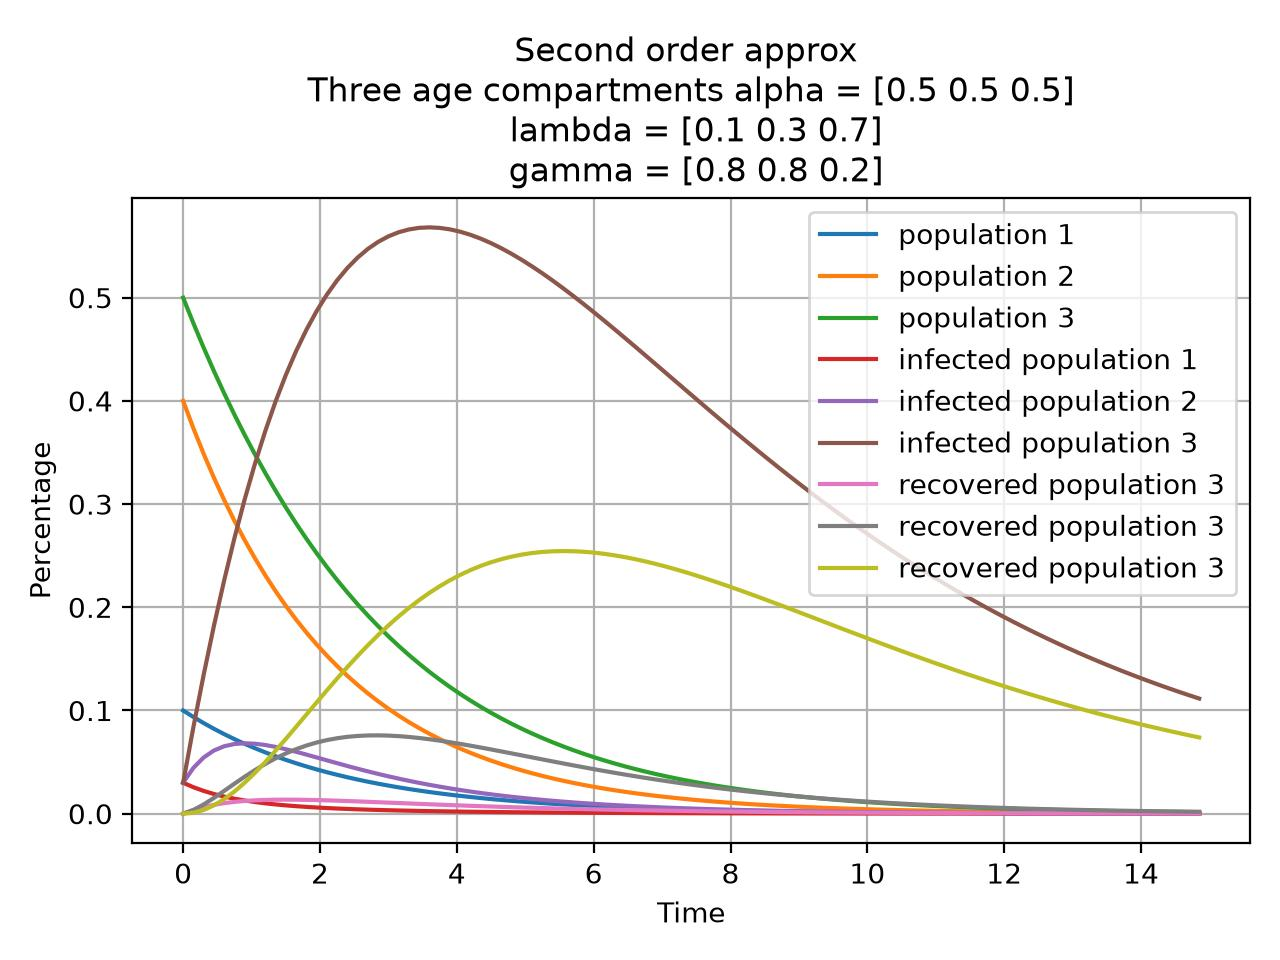
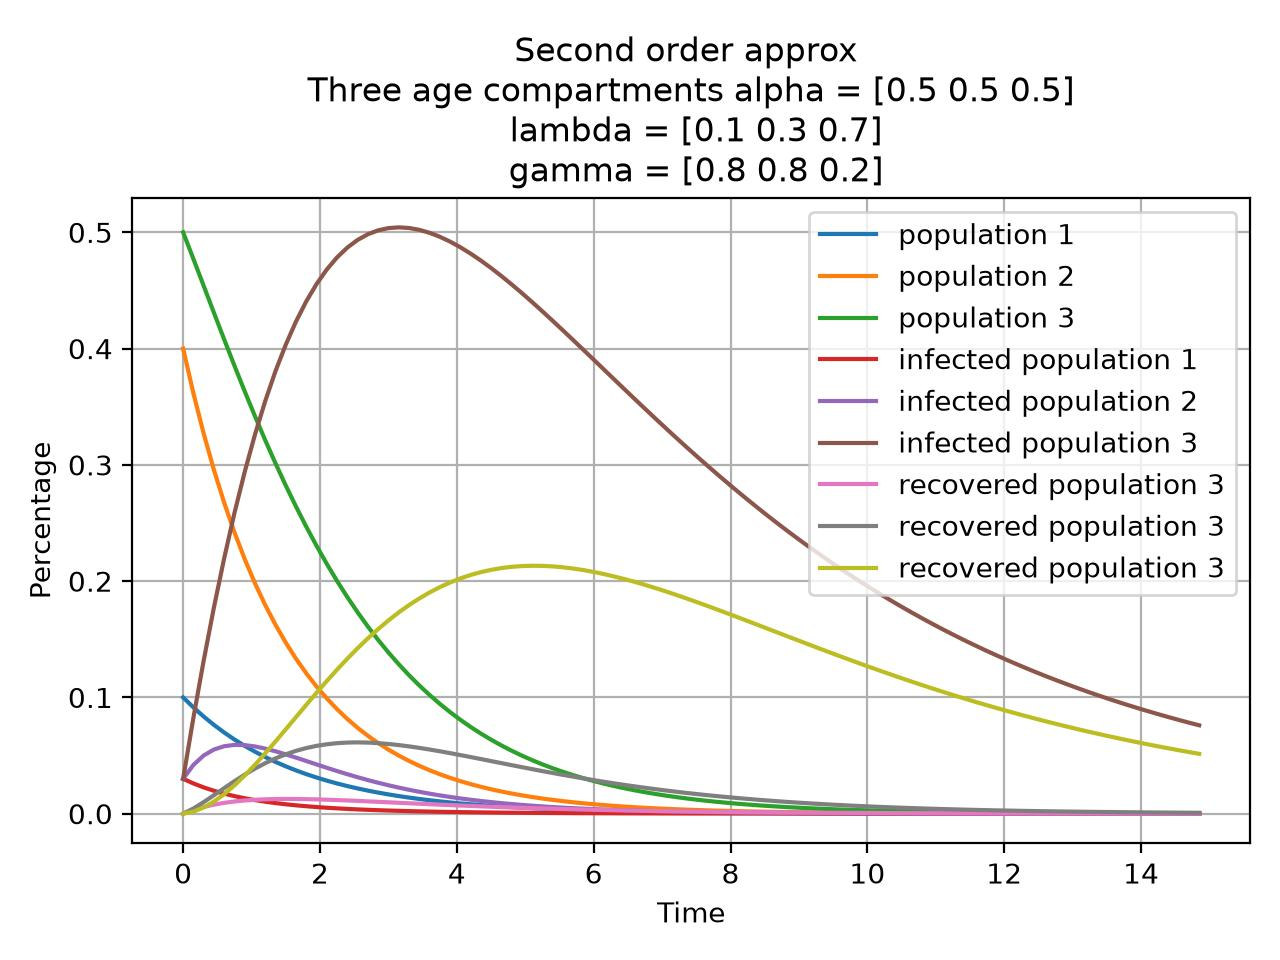
fixed second order approx and time step

diff --git a/age_example.py b/age_example.py
@@ -3,7 +3,6 @@ import matplotlib.pyplot as plt
 from models import s_alpha
 
 
-
 def taylor_system_10(f,initial,alpha,lamb,gamma,t0,t1,n):
     """Naive 2 S compartment connection. Forward 2nd order"""
     t = t0
@@ -29,16 +28,22 @@ def taylor_system_10(f,initial,alpha,lamb,gamma,t0,t1,n):
         s_1_pp = -alpha[0]*s_1_p - lamb[0]*s_1_p
         s_2_pp = alpha[0]*s_1_p - lamb[1]*s_2_p - alpha[1]*s_2_p
         s_3_pp = alpha[1]*s_2_p - lamb[2]*s_3_p
+        i_1_pp = lamb[0]*s_1_p - gamma[0]*i_1_p -alpha[0]*i_1_p
+        i_2_pp = lamb[1]*s_2_p - gamma[1]*i_2_p + alpha[0]*i_1_p - alpha[1]*i_2_p
+        i_3_pp = lamb[2]*s_3_p - gamma[2]*i_3_p + alpha[1]*i_2_p
+        r_1_pp = gamma[0]*i_1_p - alpha[0]*r_1_p
+        r_2_pp = gamma[1]*i_2_p + alpha[0]*r_1_p - alpha[1]*r_2_p
+        r_3_pp = gamma[2]*i_3_p + alpha[1]*r_2_p - alpha[2]*r_3_p
+        s[0] += h*(s_1_p + 0.5*h*s_1_pp)
+        s[1] += h*(s_2_p + 0.5*h*s_2_pp)
+        s[2] += h*(s_3_p + 0.5*h*s_3_pp)
+        i[0] += h*(i_1_p+ 0.5*h*i_1_pp)
+        i[1] += h*(i_2_p+ 0.5*h*i_2_pp)
+        i[2] += h*(i_3_p+ 0.5*h*i_3_pp)
+        r[0] += h*(r_1_p + 0.5*h*r_1_pp)
+        r[1] += h*(r_2_p + 0.5*h*r_2_pp)
+        r[2] += h*(r_3_p + 0.5*h*r_3_pp) 
         t += h
-        s[0] += h*(s_1_p + 0.5*s_1_pp)
-        s[1] += h*(s_2_p + 0.5*s_2_pp)
-        s[2] += h*(s_3_p + 0.5*s_3_pp)
-        i[0] += h*(i_1_p)
-        i[1] += h*(i_2_p)
-        i[2] += h*(i_3_p)
-        r[0] += h*r_1_p
-        r[1] += h*r_2_p
-        r[2] += h*r_3_p
     return points
 
 
